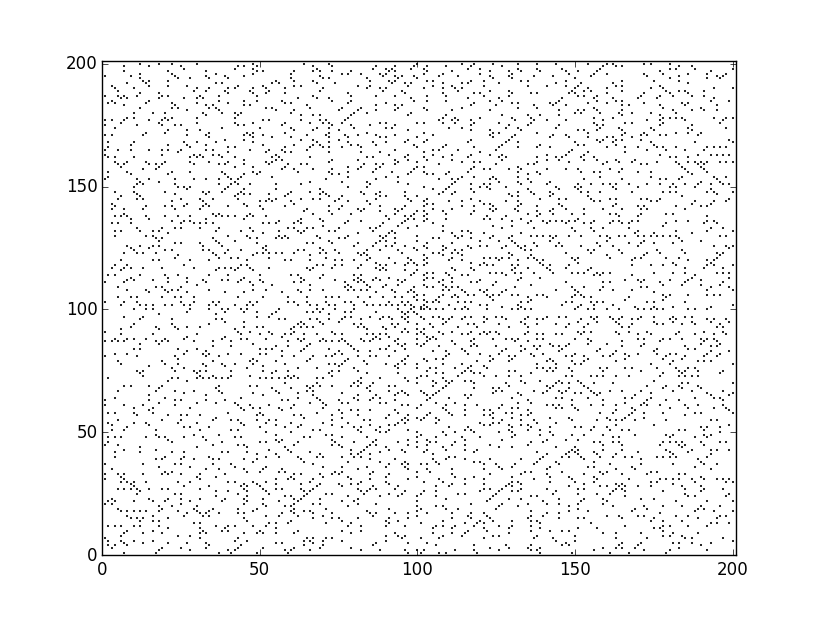
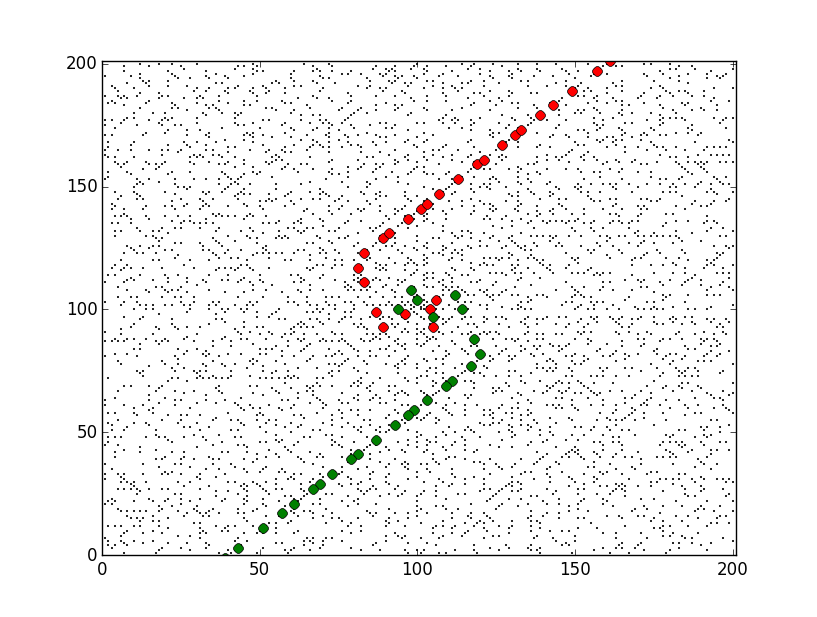
update to examples

diff --git a/README.md b/README.md
@@ -49,6 +49,8 @@ and a couple of utilities:
 ![Example 5](/plots/ulam_spiral_4.png)
 
     julia> point_spiral(fig_n=5, markersize=1, color="black", width=200)
+    julia> plot_quadratic(; fig_n=5, width=200);
+    julia> plot_quadratic(4, 2, 41; fig_n=5, width=200, color_prime="green");
 
 ![Example 6](/plots/ulam_spiral_5.png)
 
